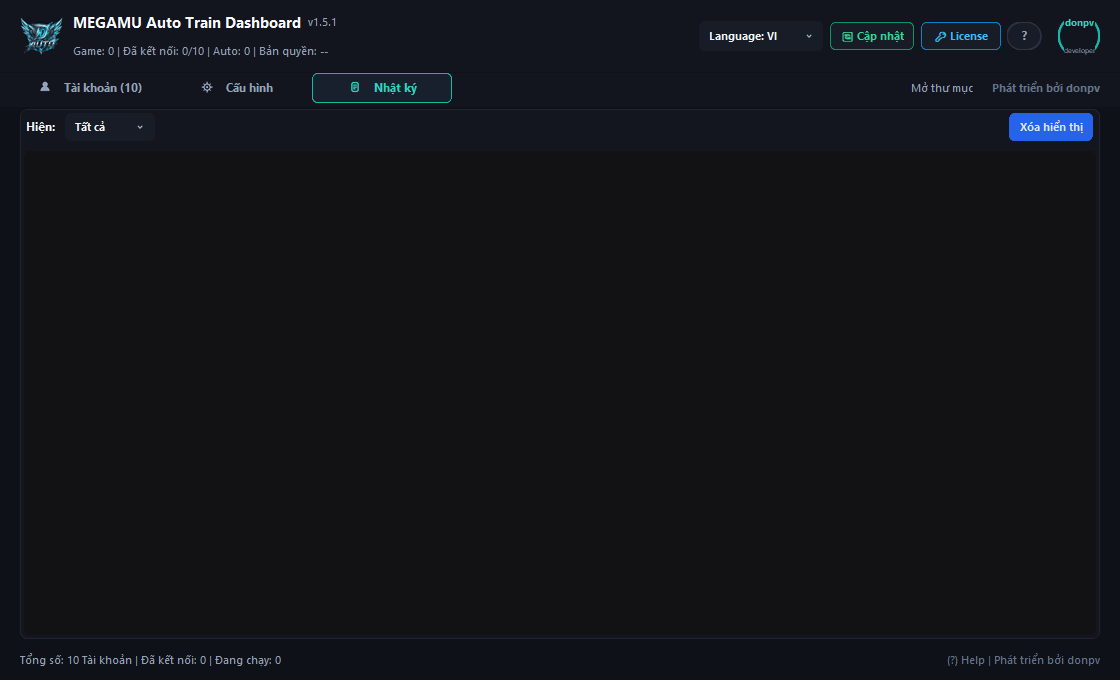
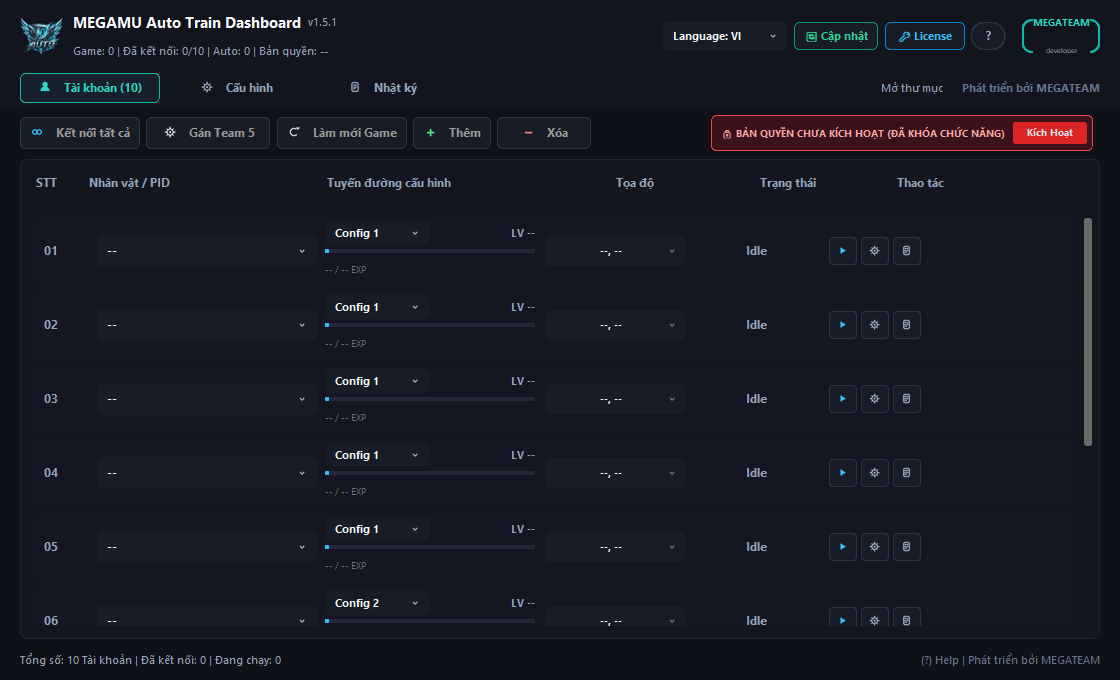
chore(assets): cap nhat toan bo anh chup thuc te phan mem MEGATEAM v1.5.1 va fix do rong badge

diff --git a/meg_gui.py b/meg_gui.py
@@ -1209,9 +1209,9 @@ class DashboardApp(ctk.CTk):
         # Badge B&T business (Circular badge with teal border)
         badge_frame = ctk.CTkFrame(
             right_box,
-            width=42,
-            height=42,
-            corner_radius=21,
+            width=78,
+            height=34,
+            corner_radius=10,
             fg_color="#12151e",
             border_width=1.5,
             border_color="#14b8a6"
